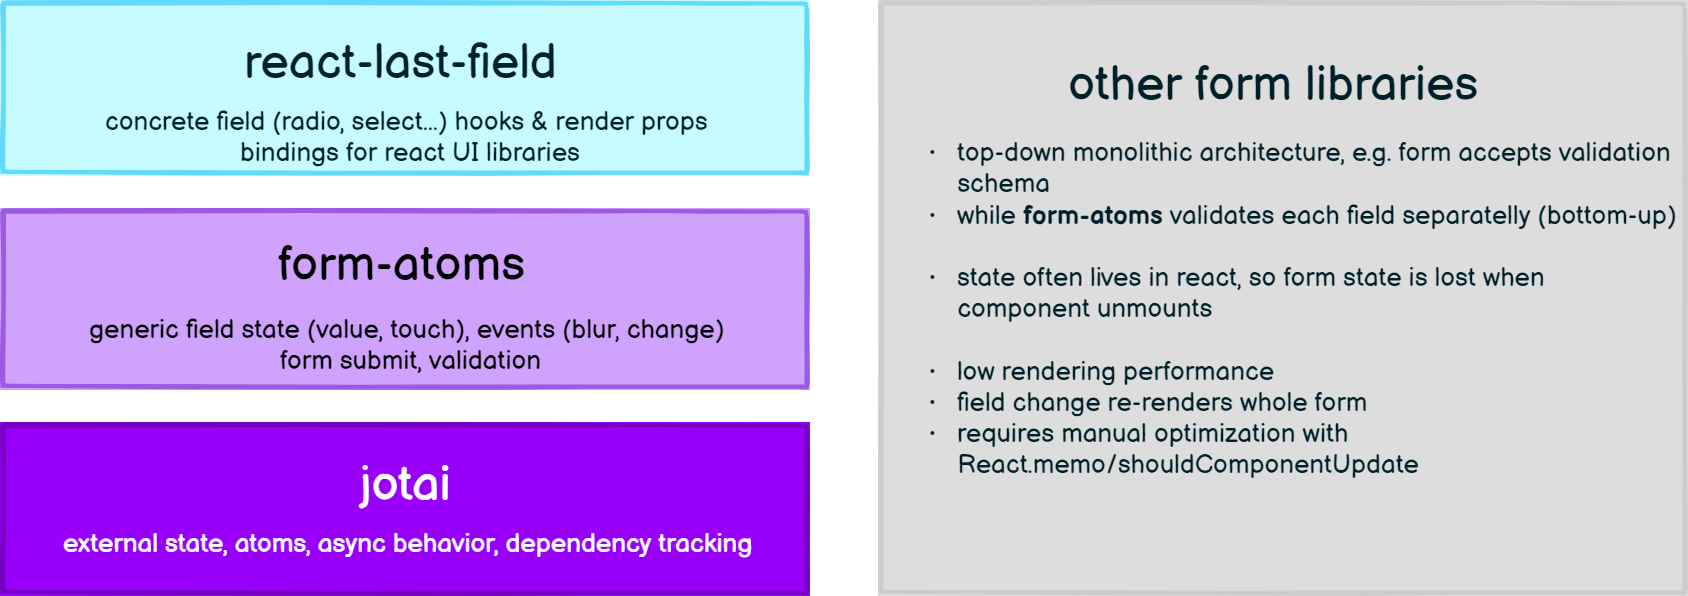
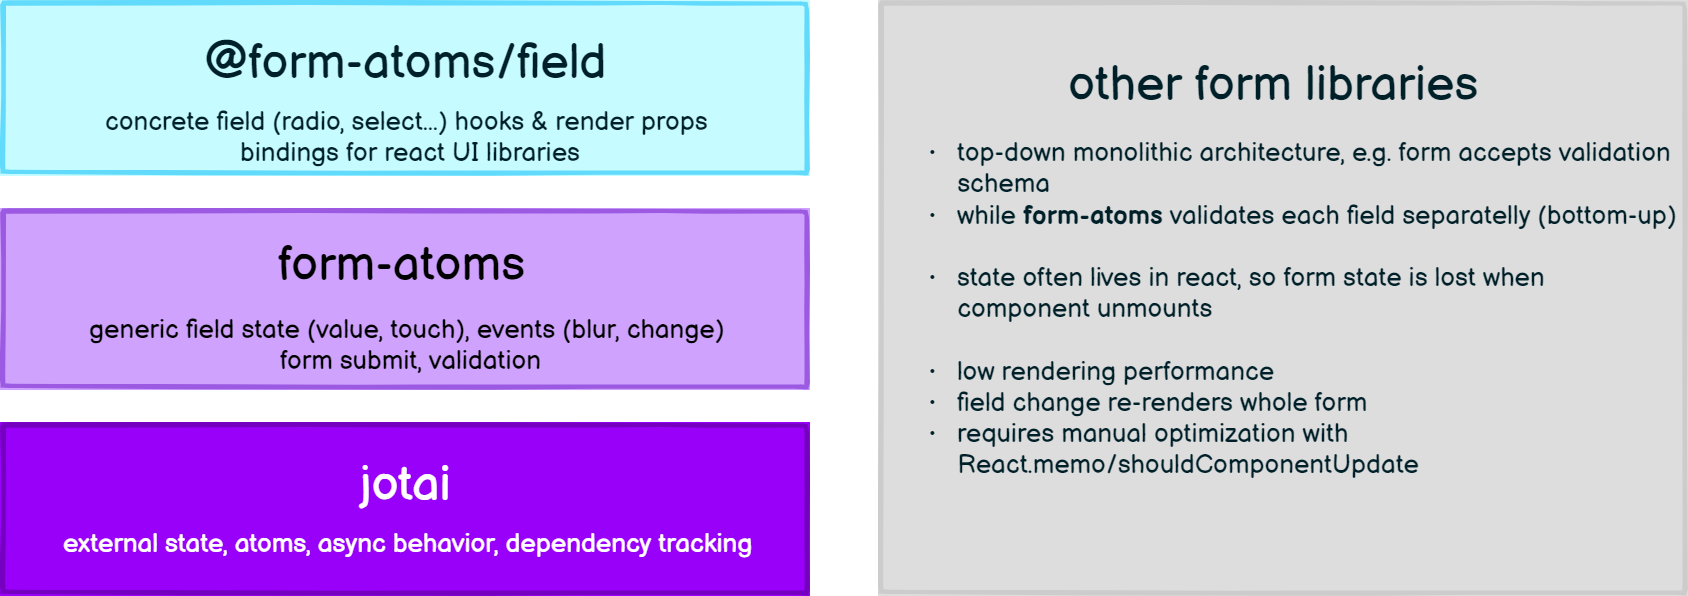
rename to @form-atoms/field
This closely matches the original `form-atoms` so its easy to remember that those belong together.

Changed region(s): [[0.1232, 0.0604, 0.3697, 0.151]]

diff --git a/packages/flowbite/src/number-field/NumberField.test.tsx b/packages/flowbite/src/number-field/NumberField.test.tsx
@@ -2,7 +2,7 @@ import { render, screen } from "@testing-library/react";
 import userEvent from "@testing-library/user-event";
 import { describe, expect, it } from "vitest";
 import { NumberField } from ".";
-import { numberField } from "@react-last-field/field";
+import { numberField } from "@form-atoms/field";
 import { formAtom, useFormSubmit } from "form-atoms";
 import { renderHook, act as domAct } from "@testing-library/react-hooks/dom";
 

diff --git a/packages/flowbite/src/array-field/ArrayField.stories.tsx b/packages/flowbite/src/array-field/ArrayField.stories.tsx
@@ -3,7 +3,7 @@ import { fieldAtom, formAtom, useForm } from "form-atoms";
 import { zodValidate } from "form-atoms/zod";
 import { z } from "zod";
 import { StoryForm } from "../stories";
-import { arrayFieldAtoms } from "@react-last-field/field";
+import { arrayFieldAtoms } from "@form-atoms/field";
 import { ArrayField } from "./ArrayField";
 import { TextField } from "../text-field";
 import { ImageField } from "../image-field";

diff --git a/packages/flowbite/src/number-field/NumberField.tsx b/packages/flowbite/src/number-field/NumberField.tsx
@@ -1,7 +1,7 @@
 import { TextInput, Label, TextInputProps } from "flowbite-react";
 import { useFieldError } from "../hooks";
-import { NumberFieldProps } from "@react-last-field/field";
-import { useNumberFieldProps } from "@react-last-field/field";
+import { NumberFieldProps } from "@form-atoms/field";
+import { useNumberFieldProps } from "@form-atoms/field";
 import { Field } from "../field";
 
 export const NumberField = ({

diff --git a/packages/chakra-ui/src/radio-field/RadioField.tsx b/packages/chakra-ui/src/radio-field/RadioField.tsx
@@ -1,4 +1,4 @@
-import { SelectFieldProps, useSelectOptions } from "@react-last-field/field";
+import { SelectFieldProps, useSelectOptions } from "@form-atoms/field";
 import { useFieldActions, useInputFieldProps } from "form-atoms";
 import { ChakraField, ChakraFieldProps } from "../chakra-field";
 import { RadioGroup, Radio, Stack } from "@chakra-ui/react";

diff --git a/packages/flowbite/src/range-field/RangeField.tsx b/packages/flowbite/src/range-field/RangeField.tsx
@@ -1,6 +1,6 @@
 import { RangeSlider, RangeSliderProps, Label } from "flowbite-react";
 import { useFieldError } from "../hooks";
-import { NumberFieldProps, useNumberFieldProps } from "@react-last-field/field";
+import { NumberFieldProps, useNumberFieldProps } from "@form-atoms/field";
 import { Field } from "../field";
 
 export const RangeField = ({

diff --git a/packages/flowbite/src/file-field/FileField.tsx b/packages/flowbite/src/file-field/FileField.tsx
@@ -1,6 +1,6 @@
 import { Label, FileInput, FileInputProps } from "flowbite-react";
 import { useFieldError } from "../hooks";
-import { FileFieldProps, useFileFieldProps } from "@react-last-field/field";
+import { FileFieldProps, useFileFieldProps } from "@form-atoms/field";
 import { InputColors } from "../hooks";
 import { Field } from "../field";
 

diff --git a/packages/flowbite/src/text-field/TextField.tsx b/packages/flowbite/src/text-field/TextField.tsx
@@ -1,6 +1,6 @@
 import { TextInput, Label, TextInputProps } from "flowbite-react";
 import { useFieldError } from "../hooks";
-import { TextFieldProps, useTextFieldProps } from "@react-last-field/field";
+import { TextFieldProps, useTextFieldProps } from "@form-atoms/field";
 import { InputColors } from "../hooks";
 import { Field } from "../field";
 

diff --git a/packages/flowbite/src/textarea-field/TextareaField.tsx b/packages/flowbite/src/textarea-field/TextareaField.tsx
@@ -1,6 +1,6 @@
 import { Label, Textarea, TextareaProps } from "flowbite-react";
 import { useFieldError } from "../hooks";
-import { TextFieldProps, useTextFieldProps } from "@react-last-field/field";
+import { TextFieldProps, useTextFieldProps } from "@form-atoms/field";
 import { InputColors } from "../hooks";
 import { Field } from "../field";
 

diff --git a/packages/flowbite/src/stories/Introduction.stories.tsx b/packages/flowbite/src/stories/Introduction.stories.tsx
@@ -3,7 +3,7 @@ import { formAtom } from "form-atoms";
 import {
   countryOptions,
   profileFields,
-} from "@react-last-field/field/dist/scenarios/profile";
+} from "@form-atoms/field/dist/scenarios/profile";
 import { Template } from ".";
 import { TextField } from "../text-field";
 import { NumberField } from "../number-field";

diff --git a/packages/chakra-ui/src/file-field/FileField.stories.tsx b/packages/chakra-ui/src/file-field/FileField.stories.tsx
@@ -5,7 +5,7 @@ import { z } from "zod";
 import { StoryForm } from "../stories";
 import { FileField } from "./FileField";
 import { Story } from "@storybook/react";
-import { fileFieldAtom } from "@react-last-field/field";
+import { fileFieldAtom } from "@form-atoms/field";
 
 export default {
   title: "FileField",

diff --git a/packages/flowbite/src/checkbox-field/CheckboxField.test.tsx b/packages/flowbite/src/checkbox-field/CheckboxField.test.tsx
@@ -1,4 +1,4 @@
-import { checkboxField } from "@react-last-field/field";
+import { checkboxField } from "@form-atoms/field";
 import { act as domAct, renderHook } from "@testing-library/react-hooks/dom";
 import { render, screen } from "@testing-library/react";
 import userEvent from "@testing-library/user-event";

diff --git a/packages/flowbite/src/radio-field/RadioField.test.tsx b/packages/flowbite/src/radio-field/RadioField.test.tsx
@@ -1,4 +1,4 @@
-import { selectField } from "@react-last-field/field";
+import { selectField } from "@form-atoms/field";
 import { render, screen } from "@testing-library/react";
 import { renderHook, act as domAct } from "@testing-library/react-hooks/dom";
 import { formAtom, useFormSubmit } from "form-atoms";
